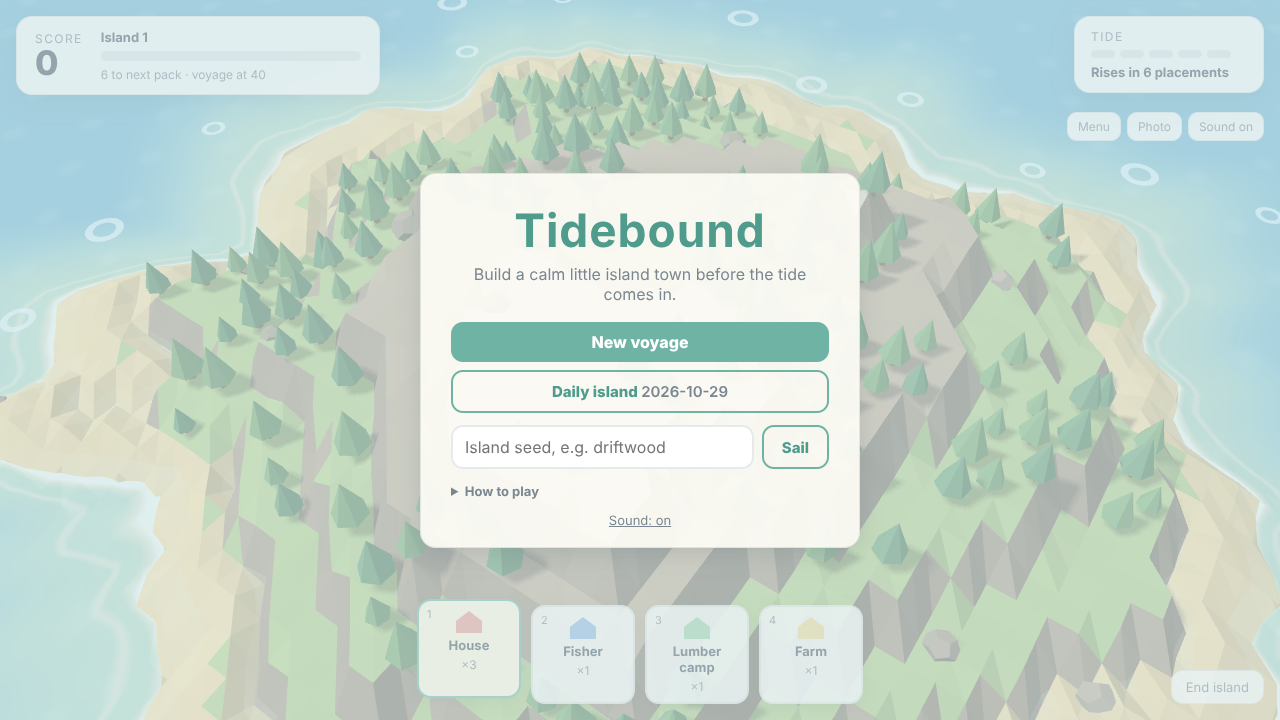
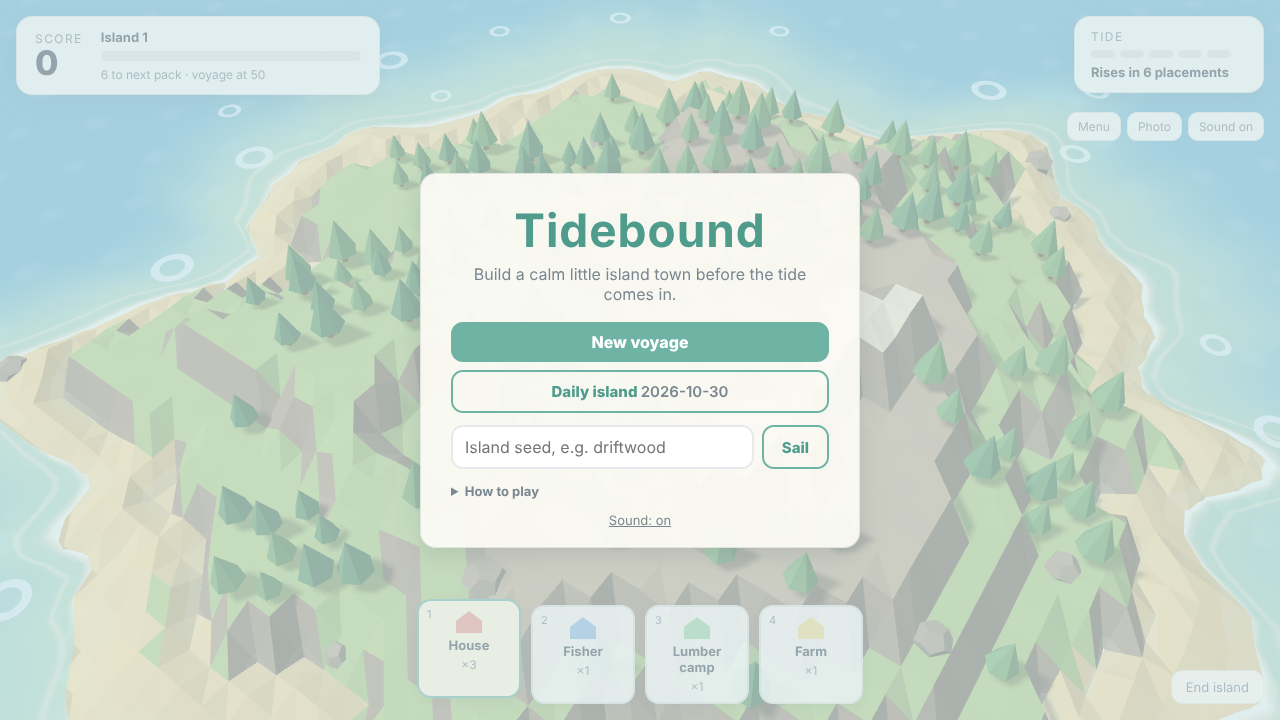
itch upload kit: cover image, refreshed screenshots, page copy
Claude-Session: https://claude.ai/code/session_013c4jhjnWQNdUJ18EYpJYJJ

diff --git a/src/render/cameraRig.ts b/src/render/cameraRig.ts
@@ -80,6 +80,12 @@ export class CameraRig {
     this.goalDist = THREE.MathUtils.clamp(distance, CAMERA.minDistance, CAMERA.maxDistance);
   }
 
+  /** Set the orbit angles in radians (tooling, screenshots). Pitch is clamped. */
+  orbit(yaw: number, pitch = this.goalPitch): void {
+    this.goalYaw = yaw;
+    this.goalPitch = this.clampPitch(pitch);
+  }
+
   /** Snap all damped values to their goals (used by tests for stable projections). */
   settle(): void {
     this.target.copy(this.goalTarget);

diff --git a/ITCH.md b/ITCH.md
@@ -18,12 +18,12 @@ Every voyage starts on a fresh, procedurally generated low-poly island: sandy be
 
 - **Houses** like company. **Markets** love Houses, but hate rival Markets.
 - **Lumber camps** clear the forest for points; **Sawmills** want camps nearby, and Houses don't want Sawmills.
-- **Fishers** cluster at the shore near shoals. **Farms** need flat meadows and dislike salt air.
+- **Fishers** stand on stilts in the shallows next to shoals of fish; the tide can't sink them, and the fish follow the shallows as the sea rises. **Farms** need flat meadows and dislike salt air.
 - **Lighthouses** stand on coastal cliffs and count every building in sight. **Shrines** want the highest ground. **Monuments** reward variety.
 
 Cross a score threshold and choose one of two new building packs. Reach the voyage mark and, when your hand runs out, set sail for a bigger island, keeping your score.
 
-**But the sea is rising.** Every six placements the tide climbs a step. Ground that will flood next shimmers, and anything caught below the waterline sinks and costs you points. Build high, gamble on the beach, or raise a **Seawall** to hold back the next rise.
+**But the sea is rising.** Every six placements the tide climbs a step. Ground that will flood next shimmers, and anything caught below the waterline sinks and costs you points. Build high, gamble on the beach, or raise a **Seawall** on the shore to hold back the next rise.
 
 ### Features
 - Endless seeded islands, plus a **daily island** that is the same for everyone each day
@@ -46,7 +46,8 @@ Desktop browser with mouse and keyboard recommended.
 - Upload `tidebound-itch.zip` (made by `npm run package`), tick "This file will be played in the browser"
 - Viewport: 1280 x 720, tick "Fullscreen button"; "Mobile friendly" off
 - Screenshots: `screenshots/1-title.png` to `screenshots/5-summary.png` (made by `npm run screenshots` against a running dev or preview server)
-- Cover image suggestion: crop of `screenshots/4-photo.png` (630 x 500)
+- Cover image: `screenshots/cover.png` (630 x 500 ratio, rendered at 2x = 1260 x 1000; made by `npm run cover`)
+- Release status: Prototype
 
 ## Credits
 Made with Three.js, TypeScript and Vite. All art and sound are generated in code.
